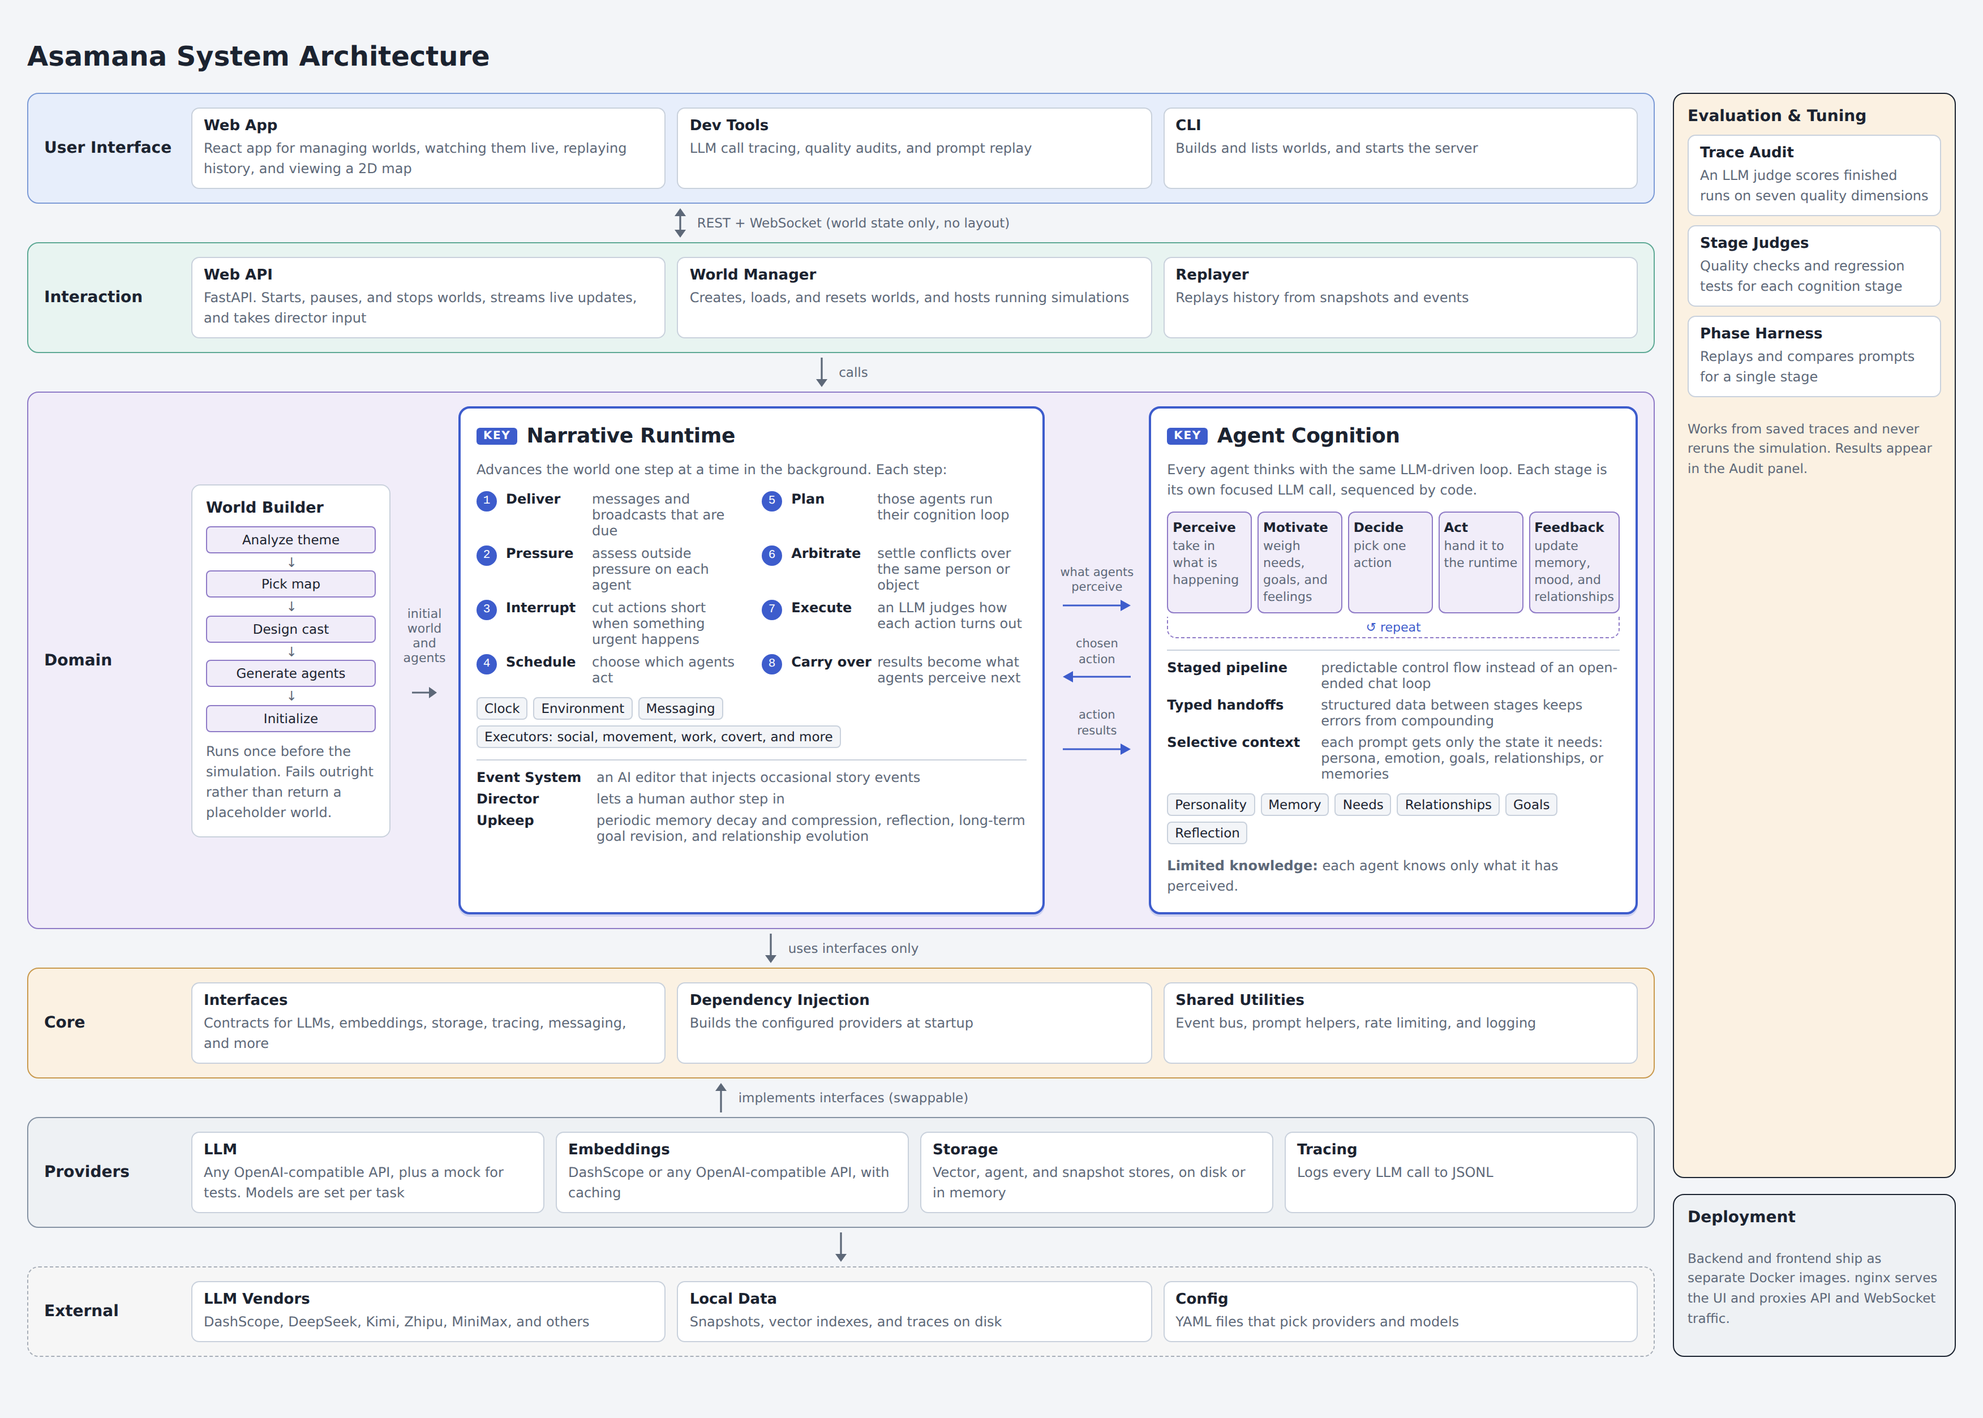
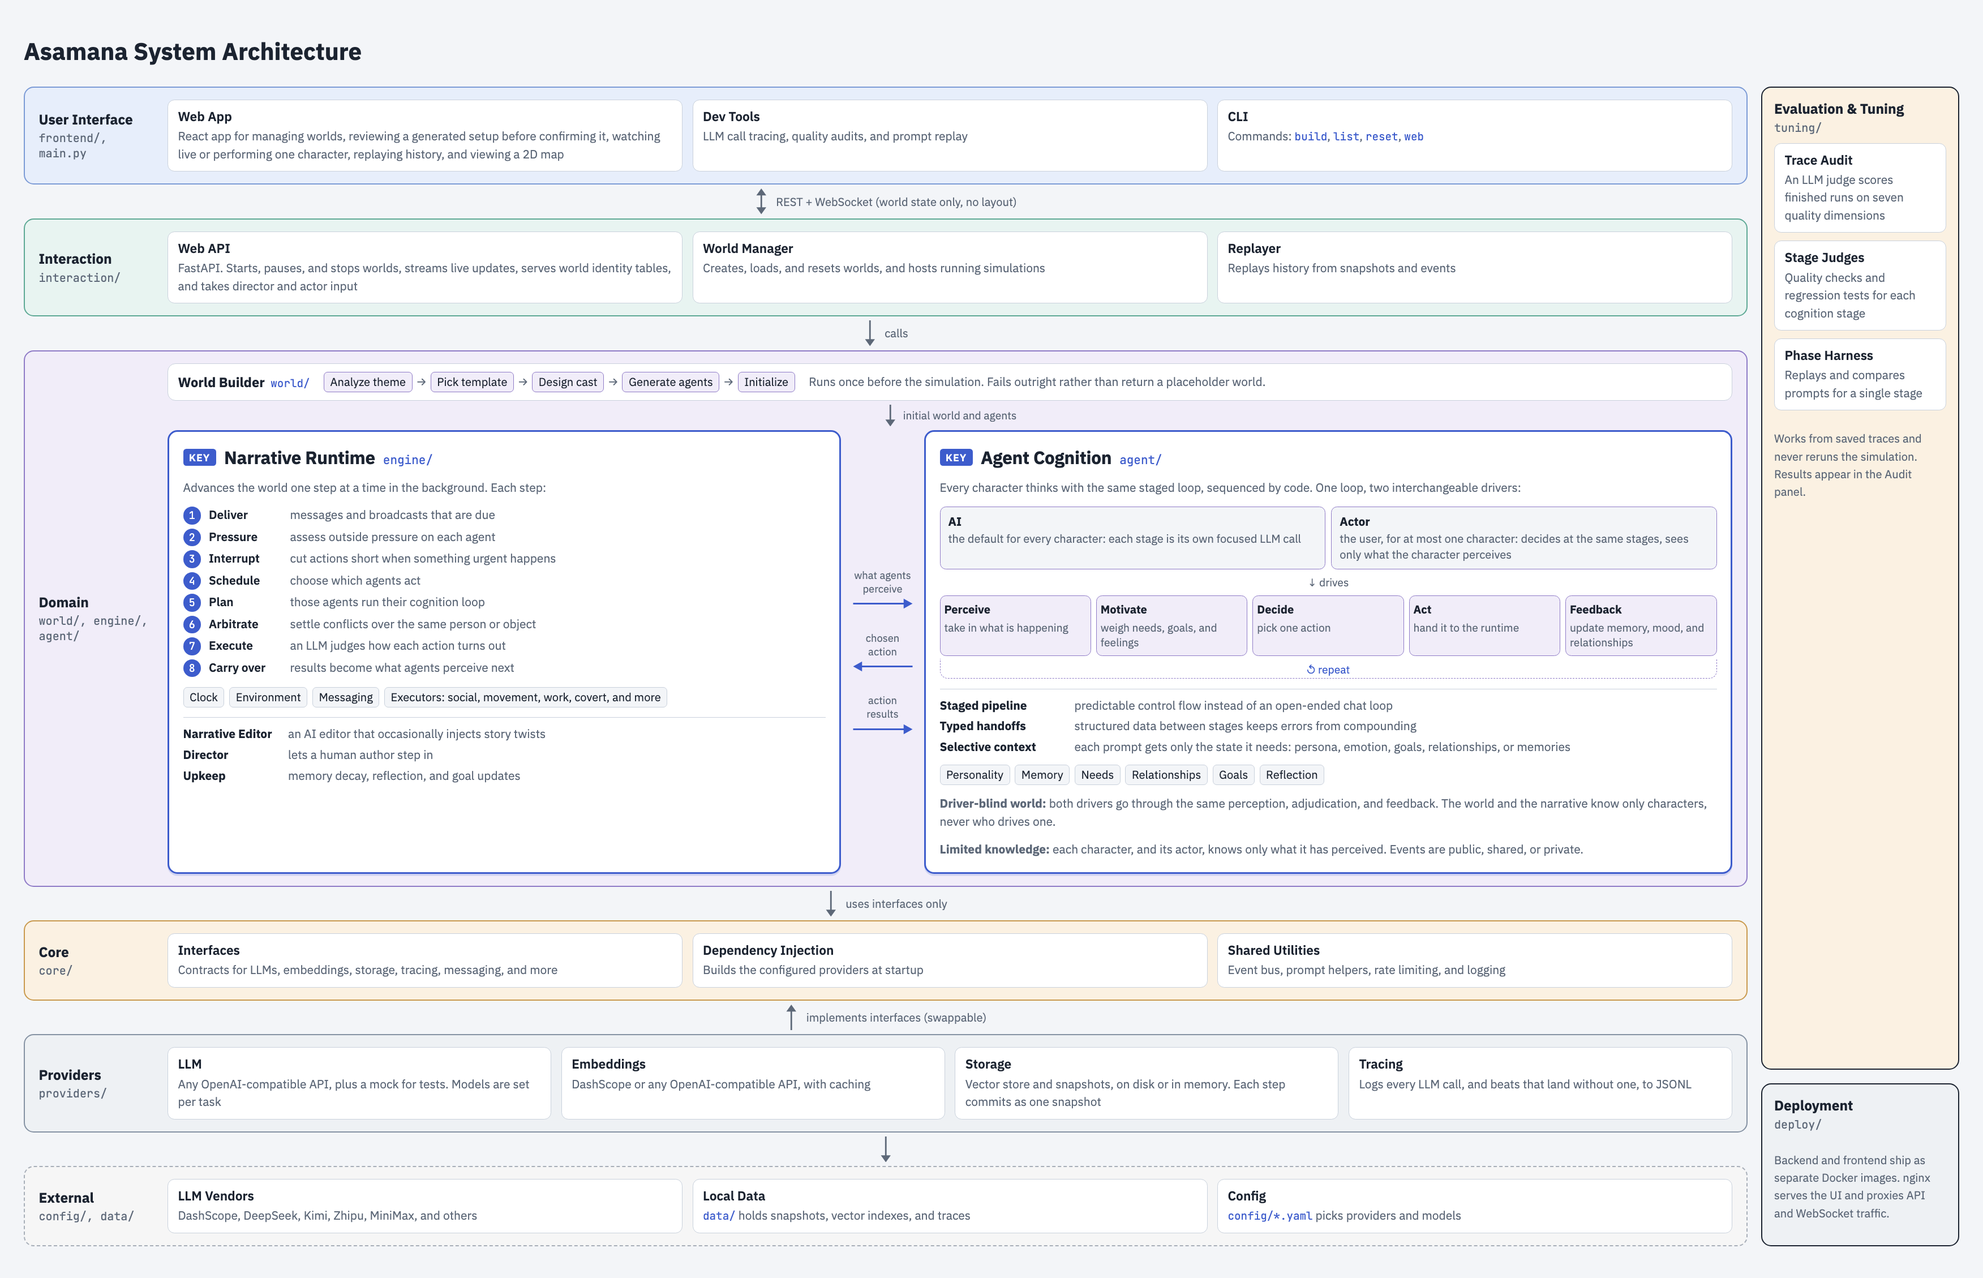
docs: sync docs and version for 0.2.0
- Architecture diagram and arch.png: actor mode as a second driver of the
  cognition loop, identity tables, single-snapshot storage, beat traces.
- README: director and actor modes, split demo videos, status note,
  renamed example worlds, Xiaohongshu contact.
- CHANGELOG: 0.2.0 entry with a compatibility section.
- Observability: tip on beats recorded without an LLM call.
- Frontend version 0.2.0.

diff --git a/docs/asamana-architecture.html b/docs/asamana-architecture.html
@@ -107,6 +107,11 @@ h1{font-size:24px;margin:0 0 4px;text-wrap:balance}
 .sidecard>b{font-size:14px}
 .sidecard>code{font-family:var(--f-mono);font-size:11.5px;color:var(--muted);margin-top:-6px}
 .note{font-size:11.5px;color:var(--muted);line-height:1.55}
+.drivers{display:grid;grid-template-columns:1fr 1fr;gap:6px}
+.drv{border:1px solid var(--biz-b);border-radius:6px;padding:6px 8px;background:var(--bg);display:flex;flex-direction:column;gap:2px;min-width:0}
+.drv b{font-size:12px}
+.drv span{font-size:11.5px;color:var(--muted);line-height:1.4}
+.drv-conn{text-align:center;font-size:11px;color:var(--muted);margin:-4px 0}
 .legend{margin-top:18px;display:flex;flex-wrap:wrap;gap:8px 22px;font-size:12.5px;color:var(--muted);line-height:1.6}
 .legend b{color:var(--fg);font-weight:600}
 </style>
@@ -126,7 +131,7 @@ h1{font-size:24px;margin:0 0 4px;text-wrap:balance}
       <div class="band ui">
         <div class="band-label"><b>User Interface</b><code>frontend/, main.py</code></div>
         <div class="row">
-          <div class="box"><h3>Web App</h3><p>React app for managing worlds, watching them live, replaying history, and viewing a 2D map</p></div>
+          <div class="box"><h3>Web App</h3><p>React app for managing worlds, reviewing a generated setup before confirming it, watching live or performing one character, replaying history, and viewing a 2D map</p></div>
           <div class="box"><h3>Dev Tools</h3><p>LLM call tracing, quality audits, and prompt replay</p></div>
           <div class="box"><h3>CLI</h3><p>Commands: <span class="m">build</span>, <span class="m">list</span>, <span class="m">reset</span>, <span class="m">web</span></p></div>
         </div>
@@ -138,7 +143,7 @@ h1{font-size:24px;margin:0 0 4px;text-wrap:balance}
       <div class="band ia">
         <div class="band-label"><b>Interaction</b><code>interaction/</code></div>
         <div class="row">
-          <div class="box"><h3>Web API</h3><p>FastAPI. Starts, pauses, and stops worlds, streams live updates, and takes director input</p></div>
+          <div class="box"><h3>Web API</h3><p>FastAPI. Starts, pauses, and stops worlds, streams live updates, serves world identity tables, and takes director and actor input</p></div>
           <div class="box"><h3>World Manager</h3><p>Creates, loads, and resets worlds, and hosts running simulations</p></div>
           <div class="box"><h3>Replayer</h3><p>Replays history from snapshots and events</p></div>
         </div>
@@ -187,7 +192,12 @@ h1{font-size:24px;margin:0 0 4px;text-wrap:balance}
 
             <div class="focus">
               <div class="focus-head"><span class="tag">Key</span><h2>Agent Cognition</h2><code>agent/</code></div>
-              <p class="d">Every agent thinks with the same LLM-driven loop. Each stage is its own focused LLM call, sequenced by code.</p>
+              <p class="d">Every character thinks with the same staged loop, sequenced by code. One loop, two interchangeable drivers:</p>
+              <div class="drivers">
+                <div class="drv"><b>AI</b><span>the default for every character: each stage is its own focused LLM call</span></div>
+                <div class="drv"><b>Actor</b><span>the user, for at most one character: decides at the same stages, sees only what the character perceives</span></div>
+              </div>
+              <div class="drv-conn">↓ drives</div>
               <div class="cycle">
                 <div class="st"><b>Perceive</b><span>take in what is happening</span></div>
                 <div class="st"><b>Motivate</b><span>weigh needs, goals, and feelings</span></div>
@@ -202,7 +212,8 @@ h1{font-size:24px;margin:0 0 4px;text-wrap:balance}
                 <div><b>Selective context</b><span>each prompt gets only the state it needs: persona, emotion, goals, relationships, or memories</span></div>
               </div>
               <div class="chips"><span class="chip">Personality</span><span class="chip">Memory</span><span class="chip">Needs</span><span class="chip">Relationships</span><span class="chip">Goals</span><span class="chip">Reflection</span></div>
-              <p class="d"><b>Limited knowledge:</b> each agent knows only what it has perceived.</p>
+              <p class="d"><b>Driver-blind world:</b> both drivers go through the same perception, adjudication, and feedback. The world and the narrative know only characters, never who drives one.</p>
+              <p class="d"><b>Limited knowledge:</b> each character, and its actor, knows only what it has perceived. Events are public, shared, or private.</p>
             </div>
           </div>
         </div>
@@ -228,8 +239,8 @@ h1{font-size:24px;margin:0 0 4px;text-wrap:balance}
         <div class="row">
           <div class="box"><h3>LLM</h3><p>Any OpenAI-compatible API, plus a mock for tests. Models are set per task</p></div>
           <div class="box"><h3>Embeddings</h3><p>DashScope or any OpenAI-compatible API, with caching</p></div>
-          <div class="box"><h3>Storage</h3><p>Vector, agent, and snapshot stores, on disk or in memory</p></div>
-          <div class="box"><h3>Tracing</h3><p>Logs every LLM call to JSONL</p></div>
+          <div class="box"><h3>Storage</h3><p>Vector store and snapshots, on disk or in memory. Each step commits as one snapshot</p></div>
+          <div class="box"><h3>Tracing</h3><p>Logs every LLM call, and beats that land without one, to JSONL</p></div>
         </div>
       </div>
 

diff --git a/README.md b/README.md
@@ -6,13 +6,14 @@ English | [简体中文](README.zh-CN.md)
 
 <p align="center"><img src="docs/images/cover.jpg" alt="Asamana" width="1024"></p>
 
-▶ **Demo video**: [watch on Bilibili](https://www.bilibili.com/video/BV1R4HS6WEsE/)
+▶ **Director mode demo**: [watch on Bilibili](https://www.bilibili.com/video/BV1R4HS6WEsE/)<br>
+▶ **Actor mode demo**: [watch on Bilibili](https://www.bilibili.com/video/BV1tkx96eEtL/)
 
 **Asamana is an AI-driven emergent narrative engine.**
 
 Give Asamana a theme, and it creates a shared world with a cast of AI characters, each with a distinct persona and cognitive system. The characters act autonomously, and the story emerges from their interactions, with no script or predefined plot.
 
-> **Status**: early development. APIs, configuration formats and save formats may change between releases. Backward compatibility is not yet guaranteed. See [CHANGELOG.md](CHANGELOG.md) for changes.
+> **Status**: early development. APIs, configuration formats and save formats may change between releases. Backward compatibility is not yet guaranteed. There are still many known bugs, which we will fix as we keep iterating. See [CHANGELOG.md](CHANGELOG.md) for changes.
 
 > **Language**: prompts and generated narratives, including dialogue and memories, are currently in Chinese.
 
@@ -37,6 +38,12 @@ Conversation-based agent loops accumulate context with each turn, increasing cos
 - **Staged orchestration**: cognition follows five stages, `perception → motivation → decision → action → feedback`, orchestrated deterministically in code. LLM calls within these stages can be tested and tuned independently, with explicitly assembled context.
 - **Typed outputs**: stages exchange structured JSON through typed contracts. This makes outputs easier to validate and limits the spread of hallucinated information.
 - **Shared context**: each stage receives the relevant persona, emotions, needs, goals, relationships, situation and recent memories to maintain consistency over time.
+
+### 4. Two modes: director and actor
+
+**Director mode**: watch the whole world. You see every character's inner life and outward actions and everything that happens in the world, and you can step in to steer it.
+
+**Actor mode**: play any one character in the AI world, exploring it and shaping the story from inside. You never know what the world will do next; you come to know it only by exploring it.
 
 ## Architecture
 
@@ -73,7 +80,7 @@ git clone https://github.com/dreamscroll-lab/asamana.git && cd asamana
 
 On the first run, a setup wizard offers optional API key configuration (choose a model provider and enter its keys) and lets you enable developer tools. It writes `deploy/.env`, builds the images and starts the services. Open <http://localhost:8080/>, enter a theme, review and confirm the generated world, then run it to watch the story unfold.
 
-The first start also imports two completed example worlds (the Xuanwu Gate Incident and a mystery about uncovering traitors), so you can browse and replay them without API keys.
+The first start also imports two completed example worlds (宫门血色, set in the Xuanwu Gate Incident, and 第七把椅子, a mystery about uncovering traitors), so you can browse and replay them without API keys.
 
 ### With and without keys
 
@@ -174,7 +181,9 @@ If you use Asamana in your research, see [CITATION.cff](CITATION.cff). GitHub's 
 
 ## Contact
 
-finley@dreamscroll.net (finley)
+Email: finley@dreamscroll.net (finley)
+
+<p align="center"><img src="docs/images/xiaohongshu-qr.jpg" alt="Xiaohongshu QR code" width="200"><br>Xiaohongshu (rednote)</p>
 
 ## License
 

diff --git a/README.zh-CN.md b/README.zh-CN.md
@@ -6,13 +6,14 @@
 
 <p align="center"><img src="docs/images/cover.jpg" alt="Asamana" width="1024"></p>
 
-▶ **演示视频**：[在 Bilibili 观看](https://www.bilibili.com/video/BV1R4HS6WEsE/)
+▶ **导演模式演示**：[在 Bilibili 观看](https://www.bilibili.com/video/BV1R4HS6WEsE/)<br>
+▶ **演员模式演示**：[在 Bilibili 观看](https://www.bilibili.com/video/BV1tkx96eEtL/)
 
 **Asamana 是一个 AI 驱动的涌现叙事引擎。**
 
 简单地说：你给出一个主题，Asamana 会构建一群有各自认知人设的 AI 角色放到一个虚拟空间里，让他们在这个空间里围绕主题自主地展开叙事与戏剧化演绎。故事没有任何预设情节，没有剧本，完全由角色共同叙事而产生。
 
-> **项目状态**：早期迭代中。接口、配置格式与存档格式都可能在版本之间变化，暂不保证向后兼容。变更见 [CHANGELOG.md](CHANGELOG.md)。
+> **项目状态**：早期迭代中。接口、配置格式与存档格式都可能在版本之间变化，暂不保证向后兼容。目前还有不少已知 bug 没有处理，后续会持续迭代优化。变更见 [CHANGELOG.md](CHANGELOG.md)。
 
 > **语言**：目前 prompt 和生成的叙事内容（对白、记忆、情节文本等等）都是中文。
 
@@ -37,6 +38,12 @@
 - **分阶段编排**：放弃对话循环，把认知拆成 `感知 → 动机 → 决策 → 行动 → 反馈` 五个阶段，由代码确定性地编排。每个阶段都是独立的 LLM 调用，可单独测试与调优，也不会无脑累积上下文。
 - **类型化输出约束**：阶段之间用确定的类型化输出（JSON）衔接，而不是互相传递自由文本。这样可以提高准确率，也可以避免阶段间的幻觉被级联放大。
 - **overlap 上下文管理**：为保证角色的一致性、持续性和连贯性，把人设、情绪、方向（需求与目标）、关系与处境、近期记忆作为 overlap 重复注入各阶段的上下文中。
+
+### 4. 两种模式：导演模式 + 演员模式
+
+导演模式：可以观察整个世界，可以看到每个角色的内心活动和外在行为，可以看到世界发生的所有事情，也可以主动介入操控世界。
+
+演员模式：你可以在 AI 世界中扮演任意一个角色进行探索和叙事。你永远不知道世界下一步会发生什么，只有主动探索才能了解和认识世界。
 
 ## 技术架构
 
@@ -75,7 +82,7 @@ git clone https://github.com/dreamscroll-lab/asamana.git && cd asamana
 
 在中国大陆，引导里选择使用国内镜像源可以加快安装速度，详见[部署文档](docs/deployment.zh-CN.md#中国大陆的镜像源)。
 
-第一次启动时会自动导入两个已经跑完的示例世界（玄武门之变、谁是内鬼），不配 key 也可以直接浏览和回放。
+第一次启动时会自动导入两个已经跑完的示例世界（宫门血色：玄武门之变；第七把椅子：谁是内鬼），不配 key 也可以直接浏览和回放。
 
 ### 有 key 与无 key 的区别
 
@@ -176,7 +183,9 @@ Asamana 受益于以下工作：
 
 ## 联系
 
-finley@dreamscroll.net (finley)
+邮箱：finley@dreamscroll.net (finley)
+
+<p align="center"><img src="docs/images/xiaohongshu-qr.jpg" alt="小红书二维码" width="200"><br>小红书</p>
 
 ## 许可证
 

diff --git a/CHANGELOG.md b/CHANGELOG.md
@@ -4,6 +4,32 @@ All notable changes to this project are documented in this file. The format is b
 
 ## [Unreleased]
 
+## [0.2.0] - 2026-11-04
+
+### Added
+
+- Actor mode: become an explorer and play any one character in the AI world, exploring it alongside the AI characters.
+- World setup editing: before you confirm a built world, edit its characters, NPCs, entity seeds, historical events, relations and more.
+- Anonymous messages: characters can send messages and announcements without revealing who sent them.
+- Trace records beats that land without an LLM call (actor decisions, injections), and the audit covers actor steps.
+
+### Changed
+
+- Relation labels flip direction: the role in a label (「关系类型:角色」) now names who the other party is to the holder, not who the holder is to them (「父子:父亲」 means the other is the holder's father).
+- Snapshots and event records are restructured: each step commits as one complete snapshot, with agent state and relations inside it (the separate agent store is gone). Each step's actions, messages, broadcasts and injections are recorded once, in order and with who perceived each; live observation, replay and the actor's view all read these same records.
+- Config renames, rejected at startup if left unchanged: `event_system_enabled` → `narrative_editor_enabled`, `max_events_per_window` → `max_injections_per_window`, `event_quota_window` → `injection_quota_window`, `event_check_interval` → `injection_check_interval`. Remove the `agent_store` section.
+- Example worlds replaced with 宫门血色 and 第七把椅子.
+- Other improvements and bug fixes.
+
+### Compatibility
+
+**This release is not backward compatible, in code or in data.**
+
+- **Saved worlds**: worlds saved by 0.1.0 can't be opened, run or replayed; the snapshot format changed. Even where old data could be read, its relation labels mean the opposite of what they mean now.
+- **Config**: a 0.1.0 config fails at startup until the keys above are renamed and `agent_store` is removed.
+- **API**: step payloads (`StepView`) and graphs reference characters, NPCs and places by id only; clients resolve names from `/api/worlds/{id}/agents`, `/npcs` and `/places`. A client written against 0.1.0 has to be updated.
+- **Upgrading**: stop the service, delete `data/` (`./deploy/asamana.sh stop && rm -rf data/`), update your config, then start again. Without clearing `data/`, old worlds stay in the list but won't open, and the new example worlds are never imported, because the first-start import has already run for that data directory. `./deploy/asamana.sh reset` also clears `data/`, but it deletes `deploy/.env` with your API keys too.
+
 ## [0.1.0] - 2026-10-08
 
 First public release.
@@ -19,5 +45,6 @@ First public release.
 - One-command Docker Compose deployment with a guided first-run setup.
 - Two completed example worlds, imported on first start and available for browsing and replay without API keys.
 
-[Unreleased]: https://github.com/dreamscroll-lab/asamana/compare/v0.1.0...HEAD
+[Unreleased]: https://github.com/dreamscroll-lab/asamana/compare/v0.2.0...HEAD
+[0.2.0]: https://github.com/dreamscroll-lab/asamana/releases/tag/v0.2.0
 [0.1.0]: https://github.com/dreamscroll-lab/asamana/releases/tag/v0.1.0

diff --git a/docs/observability.md b/docs/observability.md
@@ -12,6 +12,8 @@ Trace records each LLM call's prompt, response, token counts, latency and cognit
 - **Storage**: `data/traces/<world_id>/` — one file for the world build, then one JSONL file per run step.
 - **Viewing**: `#/dev` → **Trace**. Group by step, stage or character, and open any call to see its full prompt and response.
 
+> **Tip**: an actor's decisions and director or narrative-editor injections make no LLM call. Trace still records them, as beats, and leaves them out of the call statistics. **Actor only** shows just what an actor caused.
+
 ## World quality audit (Audit)
 
 An LLM reviews the narrative quality of a finished world. The core principles:

diff --git a/docs/observability.zh-CN.md b/docs/observability.zh-CN.md
@@ -12,6 +12,8 @@ Asamana 把角色认知拆成一次次独立的 LLM 调用，所以 trace 就是
 - **落盘**：`data/traces/<world_id>/`，建世界一个文件，之后每个运行步一个文件（JSONL）。
 - **查看**：`#/dev` → **Trace**，可按步、阶段、角色分组，点开任意调用看完整的 prompt 与响应。
 
+> **提示**：演员的决策、导演和叙事编辑器的注入不调用 LLM，Trace 仍会把它们记为 beat，但不计入调用统计。勾选 **Actor only** 只看因演员产生的记录。
+
 ## 世界质量审查（Audit）
 
 用 LLM 评审一个跑完的世界叙事质量。核心原则：
